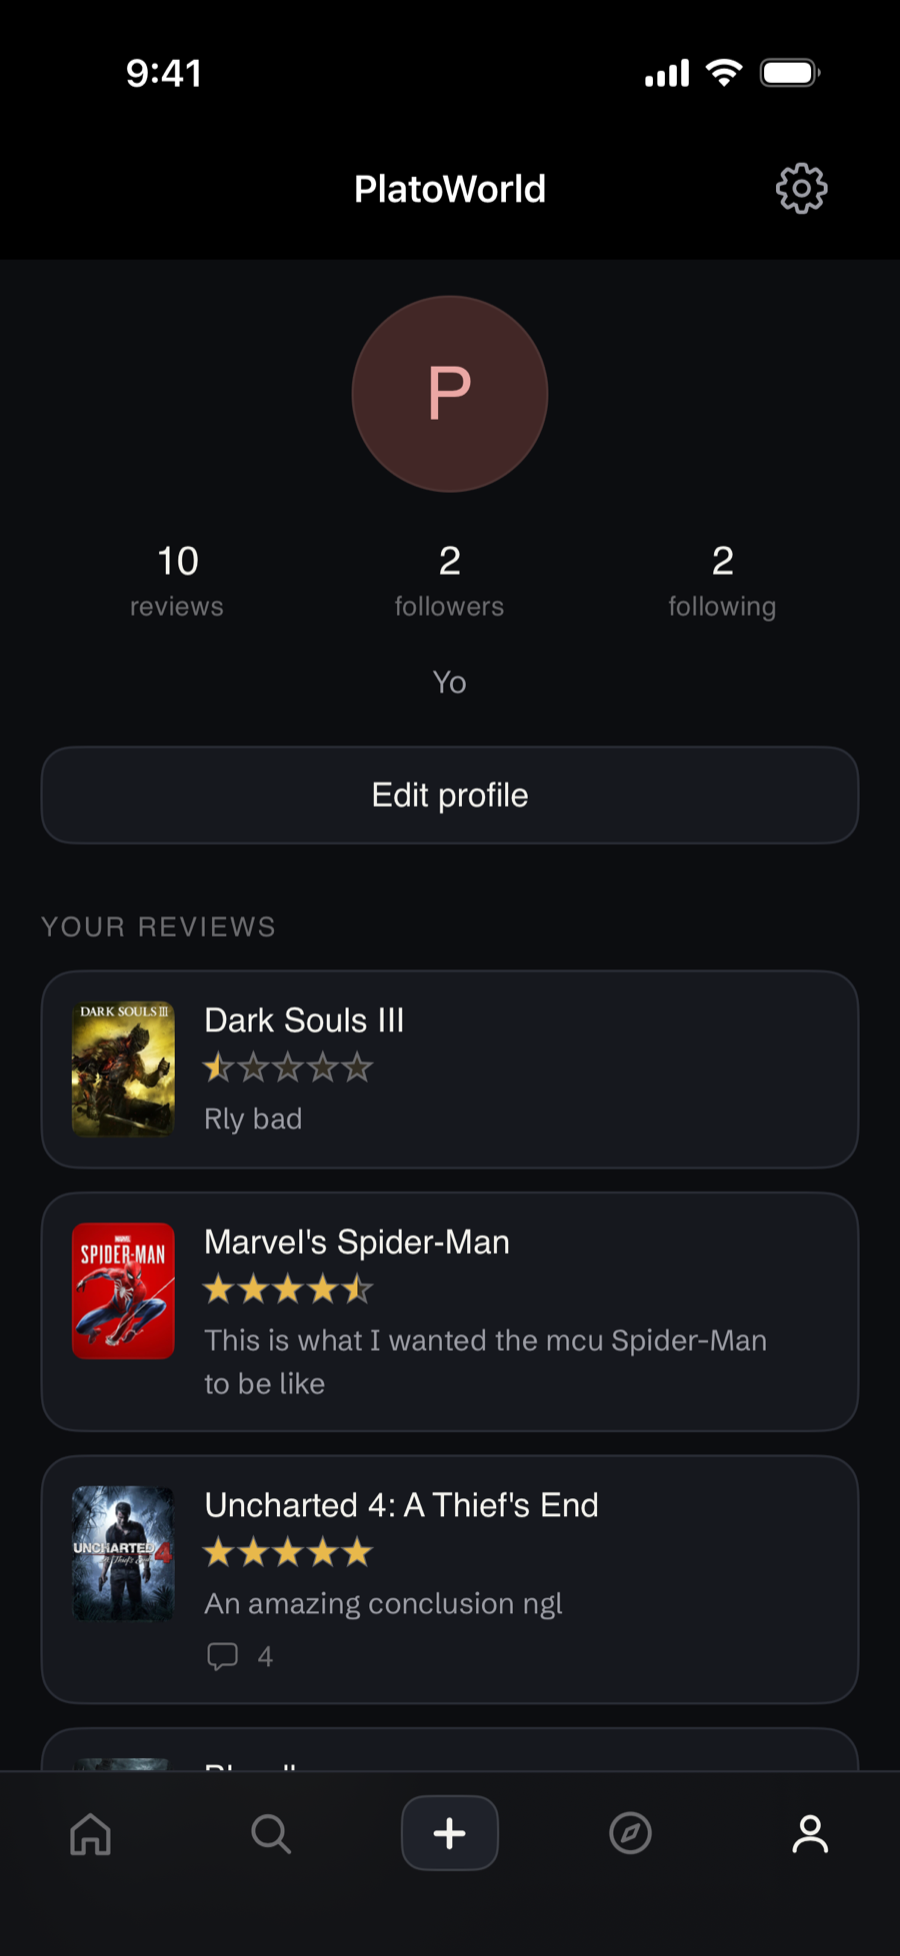
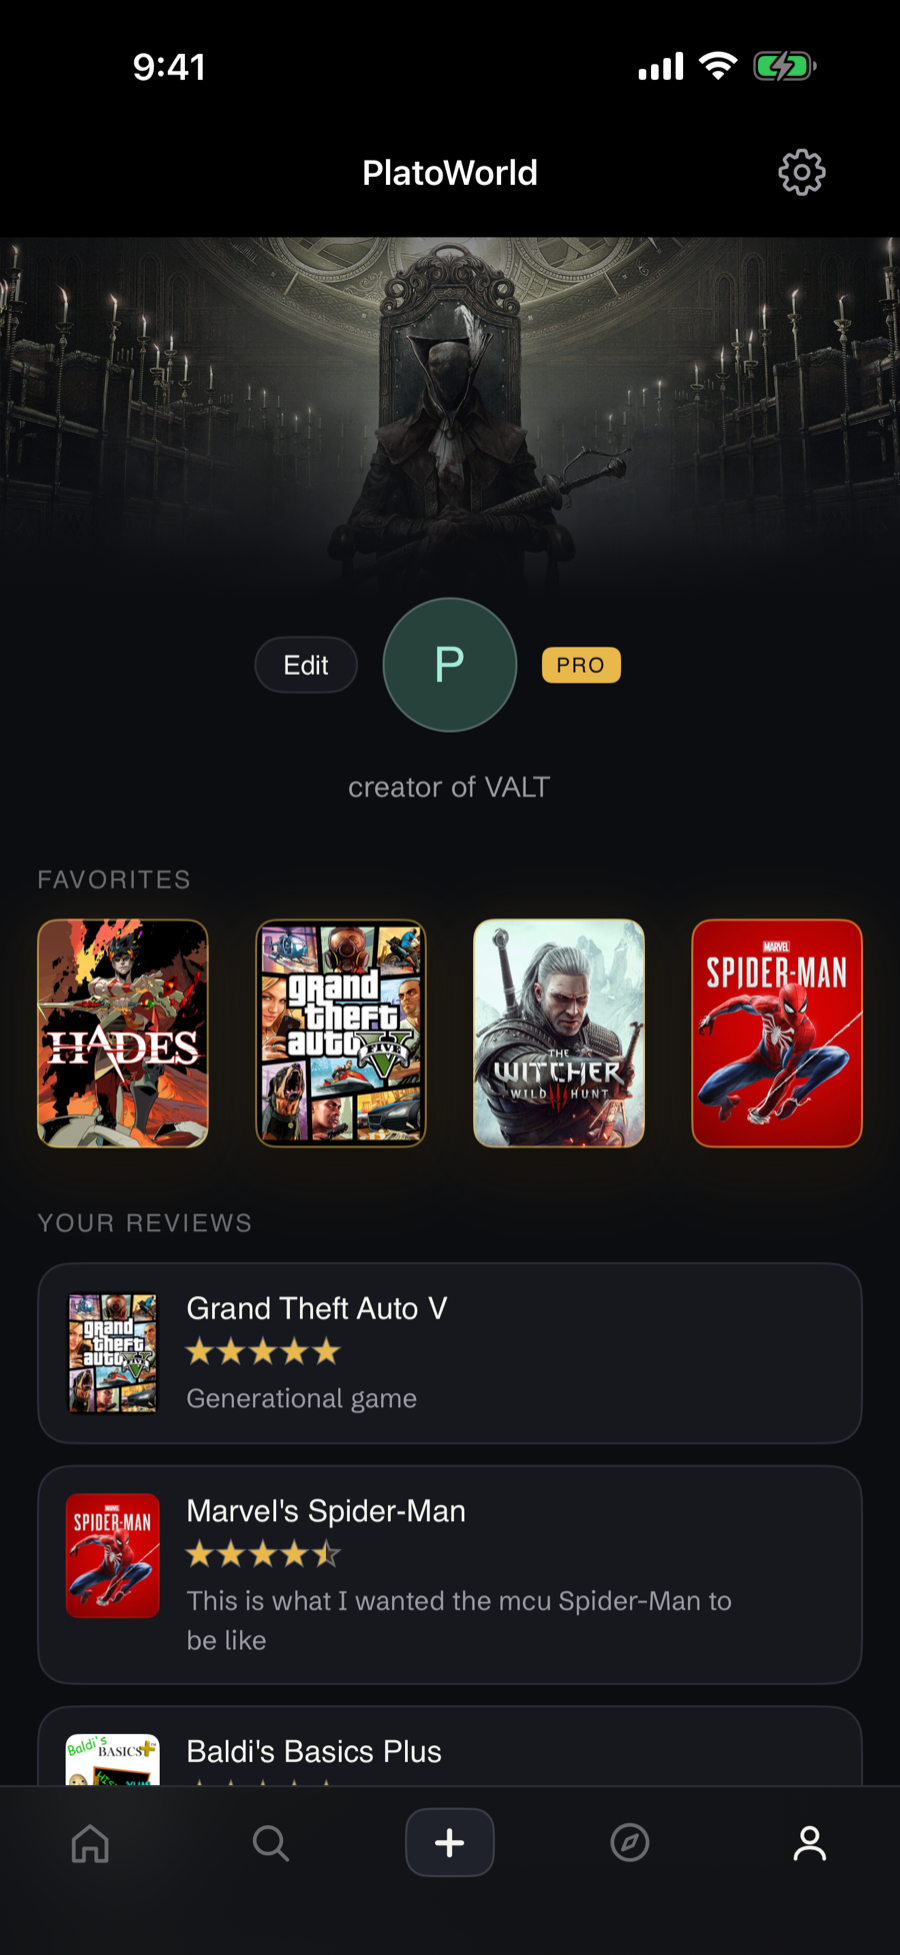
Bring the README current: the profile, Discover, and a seventh decision

diff --git a/README.md b/README.md
@@ -30,8 +30,18 @@ your feed, open it, comment on it.
   draws on launch and refreshes behind.
 - **Comments** on any review, deletable by their author and by the review's
   author.
-- **A paid tier** unlocking per review backdrop art, resolved at read time so a
-  lapsed subscription hides a choice rather than destroying it.
+- **A paid tier** unlocking per review backdrop art and profile header art,
+  resolved at read time so a lapsed subscription hides a choice rather than
+  destroying it.
+- **A profile** that is a portrait rather than a dashboard: header art, a
+  Favorites shelf of four games picked by search and reorderable by drag, an
+  archive of every review, and a rating histogram of how that person scores,
+  with tappable buckets.
+- **Discover**, built on IGDB rather than on our own 27 reviews: three rails and
+  23 genre pages with infinite scroll, behind a process-wide rate limiter that
+  makes IGDB's 4/s ceiling unreachable by construction.
+- **Account deletion** that means it: one statement, seven cascading foreign
+  keys, and the caller's comments leave other people's reviews.
 
 | Feed | Game page | Review and comments | Profile |
 |---|---|---|---|
@@ -116,6 +126,20 @@ rather than guess. The follow button waits as a shape with no tap target, sized
 so nothing moves when the real one lands, because a button that renders a state
 and then flips it invites a tap against a fabricated baseline. Two of the deleted
 things came back later, once there was real data behind them.
+
+### The fix that compiles is not always the right one
+
+Xcode reported ten Swift 6 warnings; seven had a single cause, and it was a build
+setting rather than seven bugs. `SWIFT_DEFAULT_ACTOR_ISOLATION = MainActor` had
+silently bound the image pipeline's request and cache types to the main actor,
+and the loader is an `actor`, so every access became a cross-actor violation.
+
+Adding `await` at each site silences all seven and compiles cleanly. It also
+moves every decoded-image cache read onto the main thread, which is the exact
+property the pipeline exists to provide. The correct fix was to mark the two
+types `nonisolated` — the compiler's complaint was right, and its obvious remedy
+was wrong. Both types are `Sendable` already; the isolation bought nothing and
+cost the one thing the cache is for.
 
 ### Fixing a bug is not the same as proving it fixed
 
